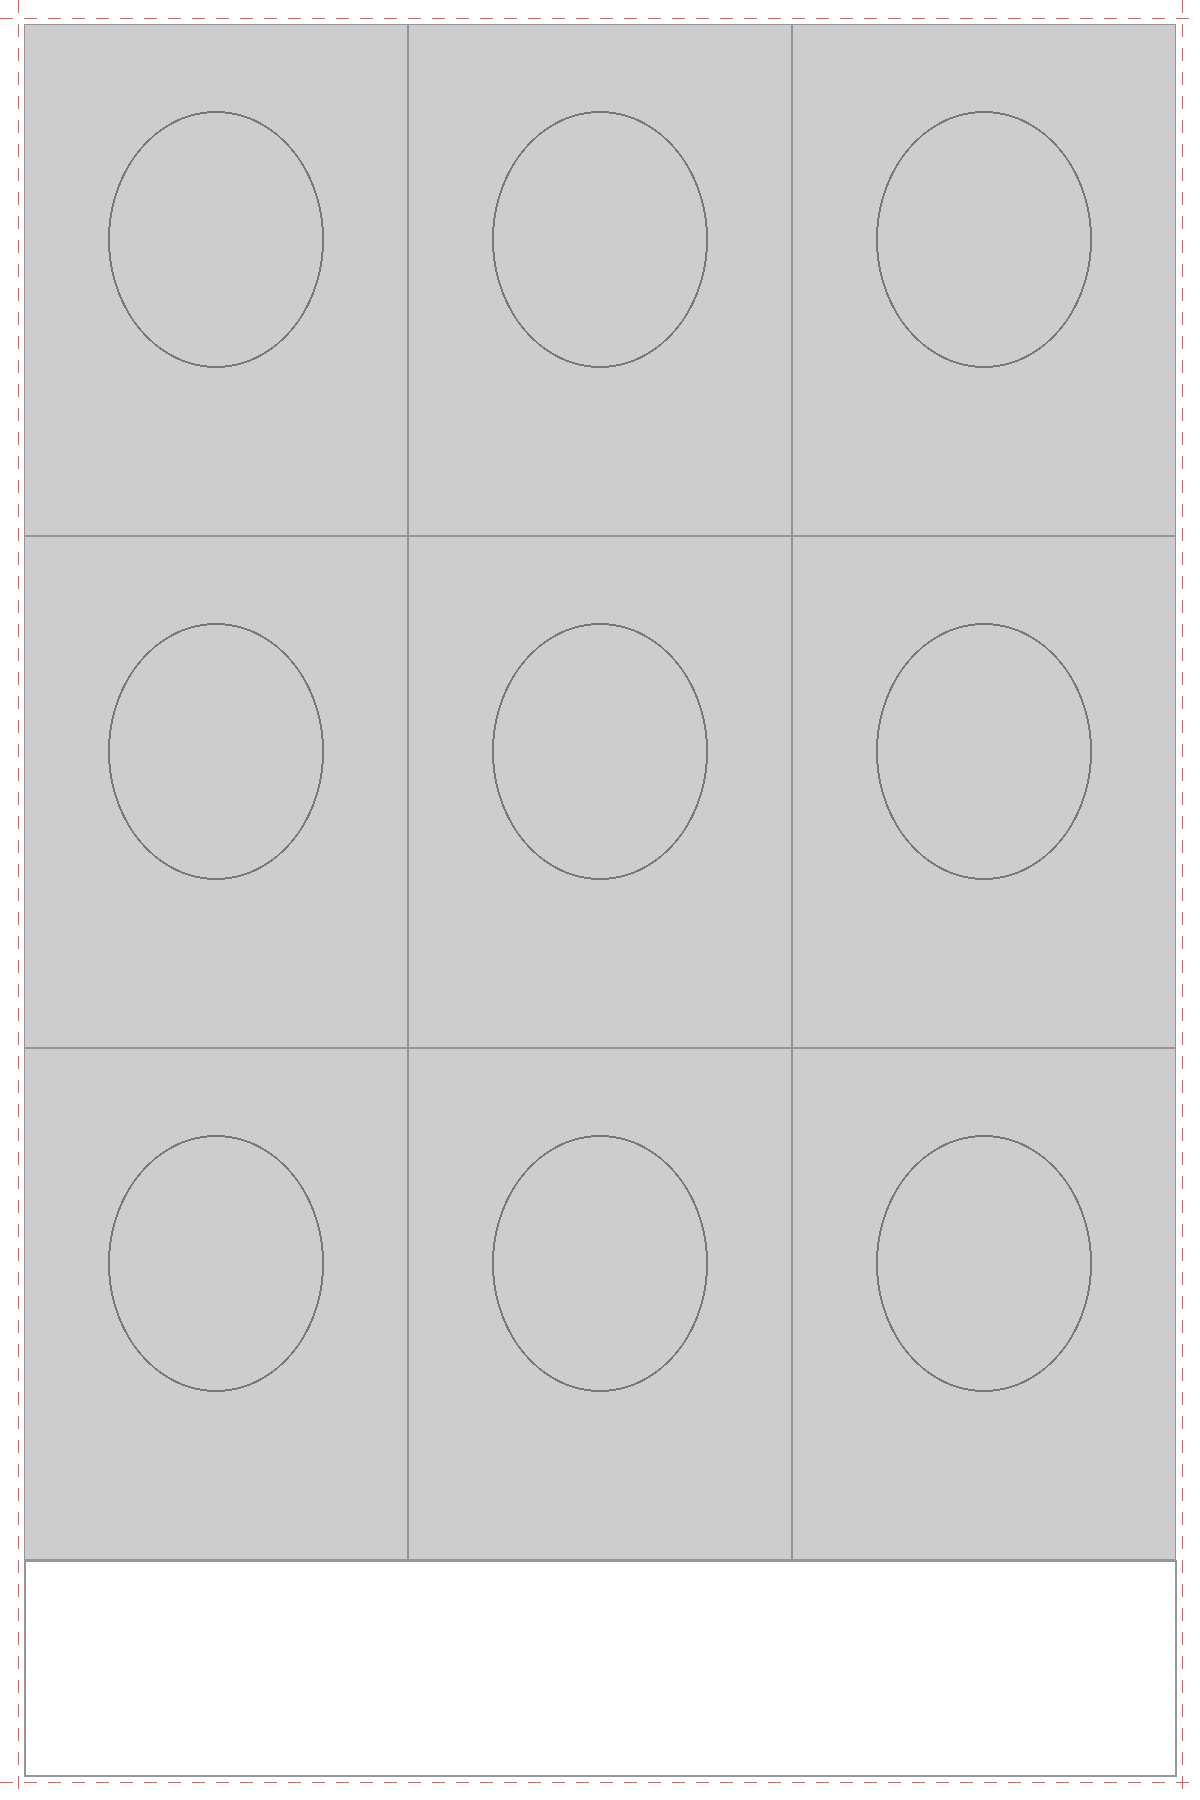
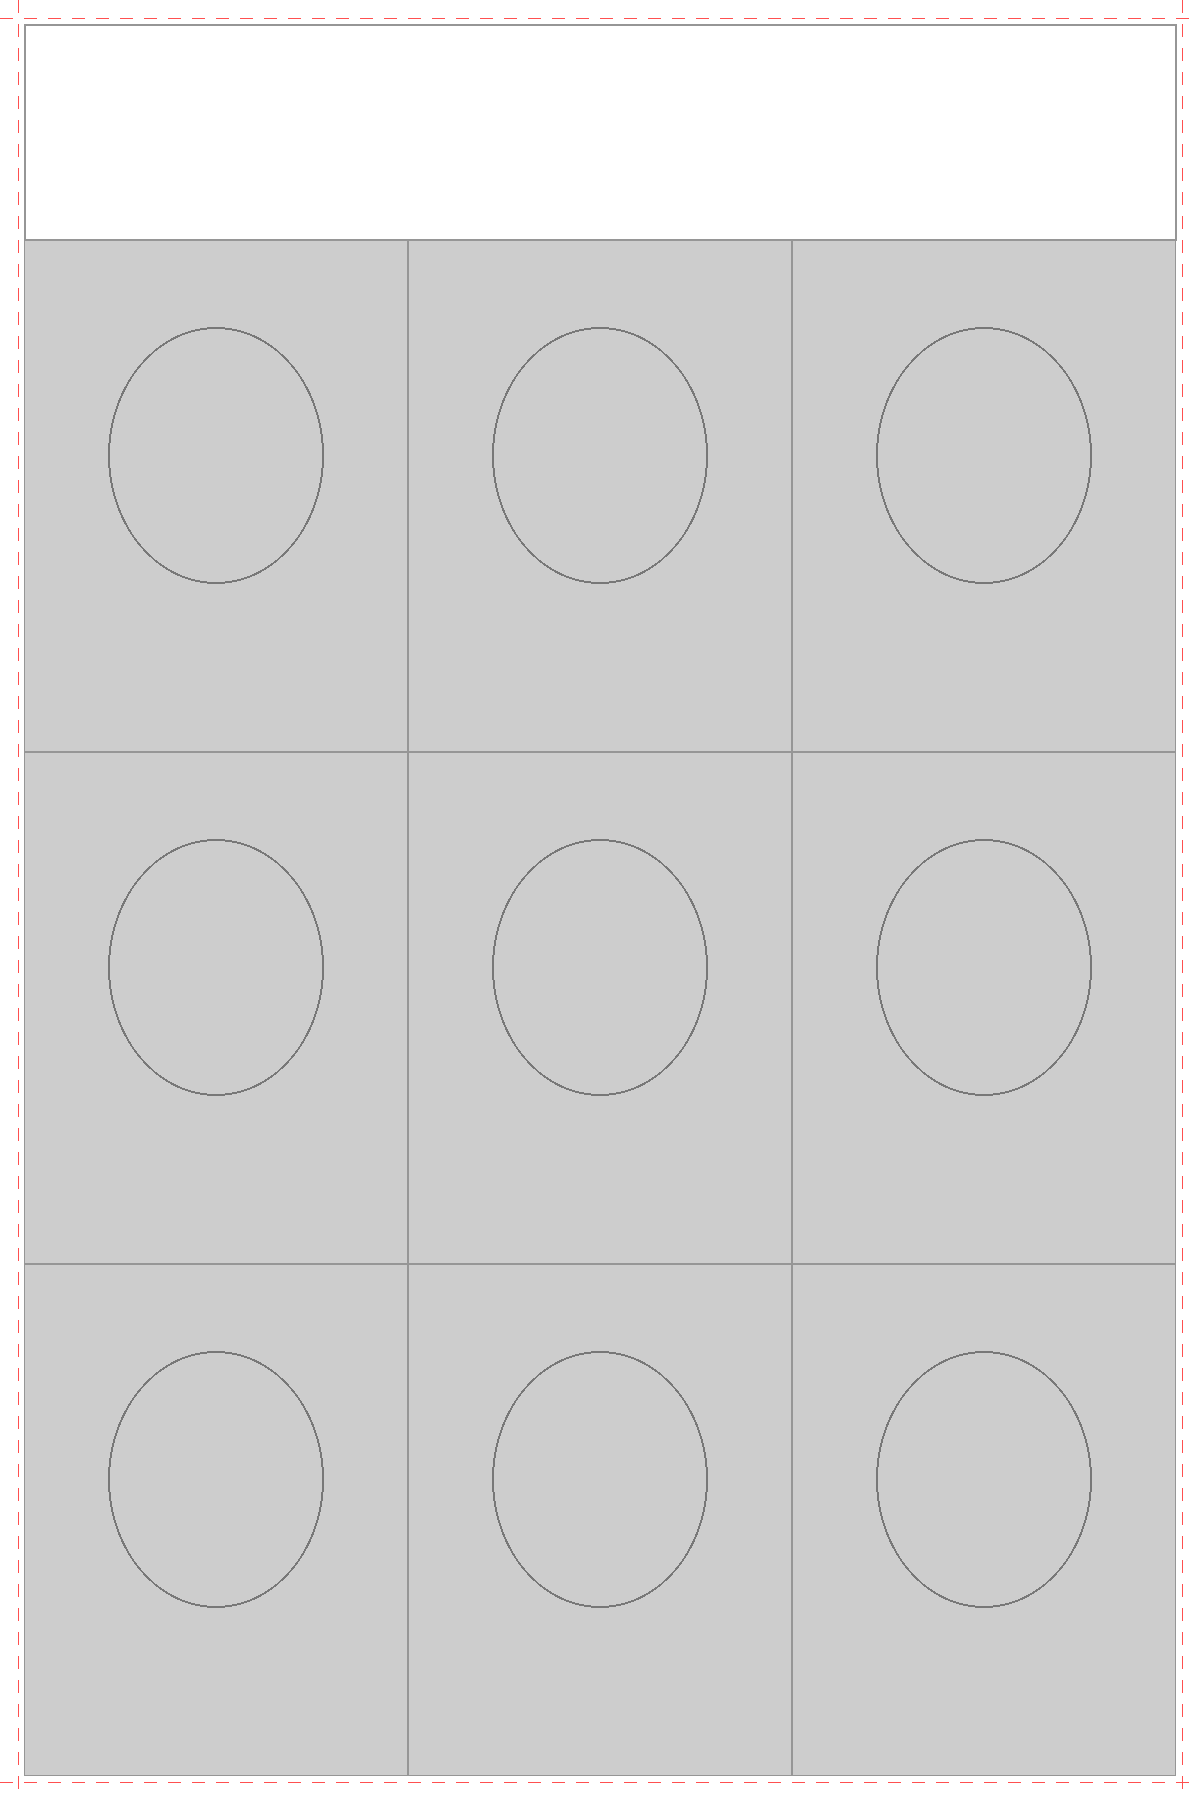
v4.18 9컷 시트 위에 로고 띠 (어쩌다 사진관까지 하는 302호)
Claude-Session: https://claude.ai/code/session_01LMf8UAwMNLbidmC1Q5Dsz8

Changed region(s): [[0.0, 0.84, 0.9867, 0.9956], [0.0, 0.0, 0.9867, 0.1556]]

diff --git a/index.html b/index.html
@@ -343,7 +343,7 @@
 
 <script>
 /* ================= 설정 ================= */
-const APP_VERSION = 'v4.17';
+const APP_VERSION = 'v4.18';
 const CONFIG = {
   // 시작 화면 문구 (줄바꿈은 \n)
   START_TITLE: '이유는 분명 있었고\n지금도 납득은 가지만\n어쩌구 사진관',
@@ -383,11 +383,13 @@ async function loadFrames() {
 const SHEET = { W: 1200, H: 1800, SCALE: 2 };
 const CUT = { W: 708, H: 944 };  // 컷 하나를 찍는 해상도 (3:4)
 const CUTS_JSON = 'cuts/cuts.json';
+const SHEET_LOGO = 'assets/sheet-logo.png';  // 9컷 시트 위 띠 로고 (시트 디자인 이미지가 없을 때)
 const LAYOUTS = {
   9: { n: 9, design: 'sheet9',
        // v4.17: 컷 사이 간격 없이 딱 붙임, 바깥 여백 24 → 컷 384x512 (예전 354x472보다 8.5% 큼)
-       cells: [0, 1, 2].flatMap(r => [0, 1, 2].map(c => ({ i: r * 3 + c, x: 24 + c * 384, y: 24 + r * 512, w: 384, h: 512 }))),
-       footers: [{ x: 24, y: 1560, w: 1152, h: 216 }] },
+       // v4.18: 로고 띠를 위로(어쩌다 사진관까지 하는 302호), 사진은 그 아래 → 아래 여백 24만 남음
+       cells: [0, 1, 2].flatMap(r => [0, 1, 2].map(c => ({ i: r * 3 + c, x: 24 + c * 384, y: 240 + r * 512, w: 384, h: 512 }))),
+       footers: [{ x: 24, y: 24, w: 1152, h: 216, logo: SHEET_LOGO }] },
   4: { n: 4, design: 'sheet4',
        cells: [0, 1].flatMap(s => [0, 1, 2, 3].map(i => ({ i, x: s * 600 + 162, y: 40 + i * 388, w: 276, h: 368 }))),
        footers: [0, 1].map(s => ({ x: s * 600 + 30, y: 1592, w: 540, h: 168 })) },
@@ -1385,9 +1387,19 @@ async function composeSheet() {
       ctx.strokeStyle = '#d8d8d8'; ctx.lineWidth = 2 * S; ctx.setLineDash([12 * S, 10 * S]);
       ctx.beginPath(); ctx.moveTo(c.width / 2, 0); ctx.lineTo(c.width / 2, c.height); ctx.stroke(); ctx.setLineDash([]);
     }
+    const date = `${d.getFullYear()}.${z(d.getMonth() + 1)}.${z(d.getDate())}`;
     for (const f of L.footers) {
+      const logo = f.logo && await loadImg(f.logo).catch(() => null);
+      if (logo) {  // 로고(가운데) + 그 아래 작은 날짜
+        const lw = f.w * 0.8, lh = lw * logo.naturalHeight / logo.naturalWidth;
+        const top = f.y + (f.h - lh - 50) / 2;
+        ctx.drawImage(logo, (f.x + (f.w - lw) / 2) * S, top * S, lw * S, lh * S);
+        ctx.font = `600 ${Math.round(26 * S)}px -apple-system, "Helvetica Neue", sans-serif`;
+        ctx.fillText(date, (f.x + f.w / 2) * S, (top + lh + 36) * S);
+        continue;
+      }
       ctx.font = `700 ${Math.round(f.h * 0.22 * S)}px -apple-system, "Helvetica Neue", sans-serif`;
-      ctx.fillText(`${d.getFullYear()}.${z(d.getMonth() + 1)}.${z(d.getDate())}`, (f.x + f.w / 2) * S, (f.y + f.h / 2) * S);
+      ctx.fillText(date, (f.x + f.w / 2) * S, (f.y + f.h / 2) * S);
     }
   }
   for (const cell of L.cells) {

diff --git a/sw.js b/sw.js
@@ -12,6 +12,7 @@ const CORE = [
   'cuts/cuts.json',
   'assets/ui/manifest.json',
   'assets/start-bg.jpg',
+  'assets/sheet-logo.png',
   'assets/pick-bg.jpg',
   'assets/pick-bg-land.jpg',
   'vendor/mediapipe/vision_bundle.mjs',

diff --git a/CLAUDE.md b/CLAUDE.md
@@ -6,7 +6,7 @@
 - 저장소: `sooomeng-coder/photobooth` (main 브랜치 루트의 `index.html`이 서비스됨)
 - 사용 기기: 아이패드 사파리 (홈 화면에 추가해서 전체화면으로 사용)
 
-## 현재 상태 (v4.17) — 버전 기록·되돌리기는 `CHANGELOG.md`
+## 현재 상태 (v4.18) — 버전 기록·되돌리기는 `CHANGELOG.md`
 
 이미지는 base64가 아니라 별도 파일로 분리되어 있고, `index.html`이 상대경로로 불러옴.
 
@@ -133,7 +133,7 @@ CHANGELOG.md             버전 기록 + 되돌리는 방법
 
 ### 4×6 인화 시트 (4컷 / 9컷)
 - 4×6인치 세로 한 장에 3×3 = 9컷. 컷 = **반명함판 3×4cm (비율 3:4)**
-- 1x(300dpi): 시트 1200×1800, 컷 384×512, 여백 24, **간격 0(딱 붙임, v4.17)**, 아래 띠 1152×216 / 컷 프레임은 그대로 708×944(시트에 넣을 때 살짝 키움)
+- 1x(300dpi): 시트 1200×1800, 컷 384×512, 여백 24, **간격 0(딱 붙임, v4.17)**, **위 띠** 1152×216(v4.18: 로고 `assets/sheet-logo.png` "어쩌다 사진관까지 하는 302호" + 작은 날짜, 사진은 y=240부터) / 컷 프레임은 그대로 708×944(시트에 넣을 때 살짝 키움)
 - 템플릿·좌표: `templates/` (`sheet_4x6_9cut.json`, 가이드 PNG, `README.md`). `frames/`에 넣지 말 것(자동 등록됨)
 - 4컷: 2×6인치 띠 2줄(가운데 자름), 띠마다 같은 4컷. 컷 276×368 @1x (비율 3:4 동일 → 컷 프레임 공유), 아래 띠 540×168
 - 코드: `SHEET`(SCALE 2 → 저장 2400×3600), `CUT`(708×944), `LAYOUTS`(4/9 좌표), `session`(mode, picks, shots, idx, retakeLeft, retakeIdx),

diff --git a/CHANGELOG.md b/CHANGELOG.md
@@ -15,6 +15,11 @@ git checkout <버전의 커밋> -- index.html tools .github
 git commit -m "v3.0으로 되돌림" && git push origin HEAD:main
 ```
 
+## v4.18 — 9컷 시트 위에 로고 "어쩌다 사진관까지 하는 302호"
+- 로고 띠를 아래에서 위로 옮김 (1x: 24,24,1152,216). 사진 9장은 y=240부터 → 아래는 여백 24만 남음
+- 로고 `assets/sheet-logo.png`(받은 612×56 이미지를 4배로 키우고 가장자리 다시 또렷하게) + 그 아래 작은 날짜
+- 시트 디자인 이미지(`디자인/9컷_시트배경`)를 올리면 그게 우선 (로고 직접 안 그림)
+
 ## v4.17 — 9컷 시트: 사진 9장을 간격 없이 딱 붙이고 크게
 - 컷 사이 간격 24 → 0, 바깥 여백 45 → 24 (1x 기준). 컷 354×472 → 384×512 (가로세로 약 8.5% 커짐)
 - 아래 날짜 띠 1152×216. `templates/sheet_4x6_9cut.json`·가이드 PNG도 새 좌표로 갱신

diff --git a/templates/README.md b/templates/README.md
@@ -8,7 +8,7 @@
 | 컷 1개 | 384 × 512 | 768 × 1024 | 약 3.25 × 4.34cm, 비율 3:4 (v4.17부터 간격 없이 붙임) |
 | 바깥 여백 (좌·우·위·아래) | 24 | 48 | 약 2mm |
 | 컷 사이 간격 | 0 | 0 | 딱 붙음 |
-| 아래 띠 (로고·날짜) | 1152 × 216 | 2304 × 432 | 약 9.75 × 1.8cm |
+| 위 띠 (로고·날짜, v4.18부터 위) | 1152 × 216 | 2304 × 432 | 약 9.75 × 1.8cm |
 
 - 컷 위치(1x, 왼쪽 위 기준 x, y, 가로, 세로)는 `sheet_4x6_9cut.json`의 `cells` (1~9번, 왼→오, 위→아래)
 - `sheet_4x6_9cut_guide.png` / `@2x.png` — 시트 전체 가이드 (회색 = 컷, 점선 = 1.5mm 안전 영역, 타원 = 얼굴 권장 위치)
